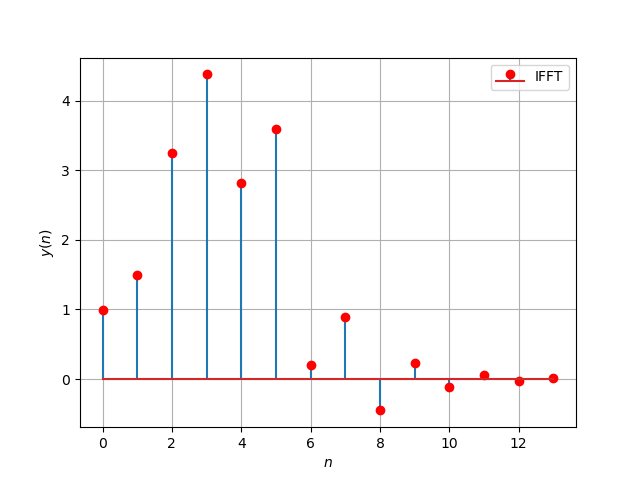
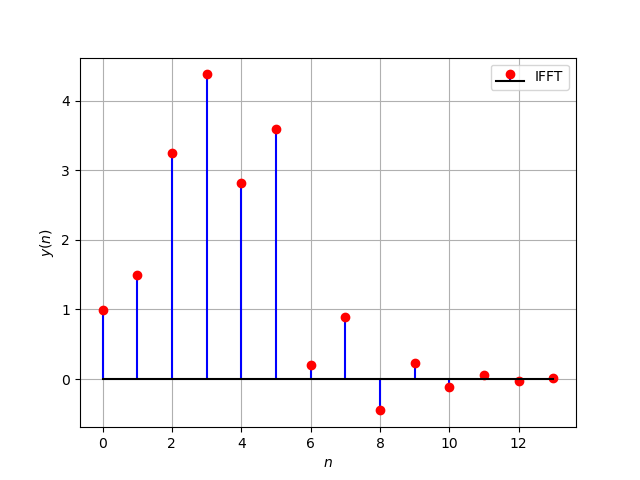
filtfilt

Changed region(s): [[0.1562, 0.7812, 0.8438, 0.8125], [0.7812, 0.1562, 0.8125, 0.1875]]

diff --git a/Audio Filtering/codes/filtfilt.py b/Audio Filtering/codes/filtfilt.py
@@ -1,0 +1,43 @@
+import soundfile as sf
+from scipy import signal, fft
+import numpy as np
+from numpy.polynomial import Polynomial as P
+from matplotlib import pyplot as plt
+
+def custom_filtfilt(b, a, x):
+    X = fft.fft(x)
+    w = np.linspace(0, 1, len(X) + 1)
+    W = np.exp(2j*np.pi*w[:-1])
+    B = (np.absolute(np.polyval(b,W)))**2
+    A = (np.absolute(np.polyval(a,W)))**2
+    Y = B*(1/A)*X
+    return fft.ifft(Y).real
+
+x,fs = sf.read('Input_audio.wav') 
+
+#order of the filter
+order=3   
+
+#cutoff frquency 4kHz
+cutoff_freq=4000.0  
+
+#digital frequency
+Wn=2*cutoff_freq/fs 
+
+# b and a are numerator and denominator polynomials respectively
+b, a = signal.butter(order, Wn, 'low') 
+
+#filter the input signal with butterworth filter
+output_signal = signal.filtfilt(b, a, x)
+
+y = custom_filtfilt(b, a, x)
+
+x_plt = np.arange(len(x))
+
+plt.stem(x_plt[1600:2000], output_signal[1600:2000],linefmt='g', markerfmt='go', basefmt='k', label='Scipy filtfilt')
+plt.stem(x_plt[1600:2000], y[1600:2000],  linefmt='b-',markerfmt='ro', basefmt='k', label='Custom filtfilt')
+
+plt.grid()
+plt.legend()
+plt.savefig("AudioFilter.png")
+

diff --git a/Audio Filtering/codes/noise_red.py b/Audio Filtering/codes/noise_red.py
@@ -14,8 +14,6 @@ cutoff_freq = 4000.0
 
 # Digital frequency
 Wn = 2 * cutoff_freq / fs
-
-# b and a are numerator and denominator polynomials, respectively
 b, a = signal.butter(order, Wn, 'low')
 
 # Ensure the signal is long enough for the filter
@@ -27,8 +25,6 @@ print(b)
 
 # Filter the input signal with a Butterworth filter
 output_signal = signal.filtfilt(b, a, input_signal, method="gust")
-
-#output_signal = signal.lfilter(b,a, input_signal)
 
 sf.write('ReducedNoise_s181.wav', output_signal, fs)
 

diff --git a/Audio Filtering/codes/IFFT_IDFT.py b/Audio Filtering/codes/IFFT_IDFT.py
@@ -17,7 +17,7 @@ H_fft = fft(h)
 Y_fft = H_fft*X_fft
 y_ifft = ifft(Y_fft).real
 
-plt.stem(range(0,14),y_ifft[:14],markerfmt='ro')
+plt.stem(range(0,14),y_ifft[:14],markerfmt='ro',basefmt = 'k',linefmt = 'bo-')
 plt.xlabel('$n$')
 plt.ylabel('$y(n)$')
 plt.grid()

diff --git a/Audio Filtering/codes/hndef.py b/Audio Filtering/codes/hndef.py
@@ -12,7 +12,6 @@ for n in range(3,k-1):
 
 #subplots
 plt.stem(range(0,k),h,linefmt='b-', markerfmt='ro', basefmt='k')
-plt.title('Impulse Response Definition')
 plt.xlabel('$n$')
 plt.ylabel('$h(n)$')
 plt.grid()
